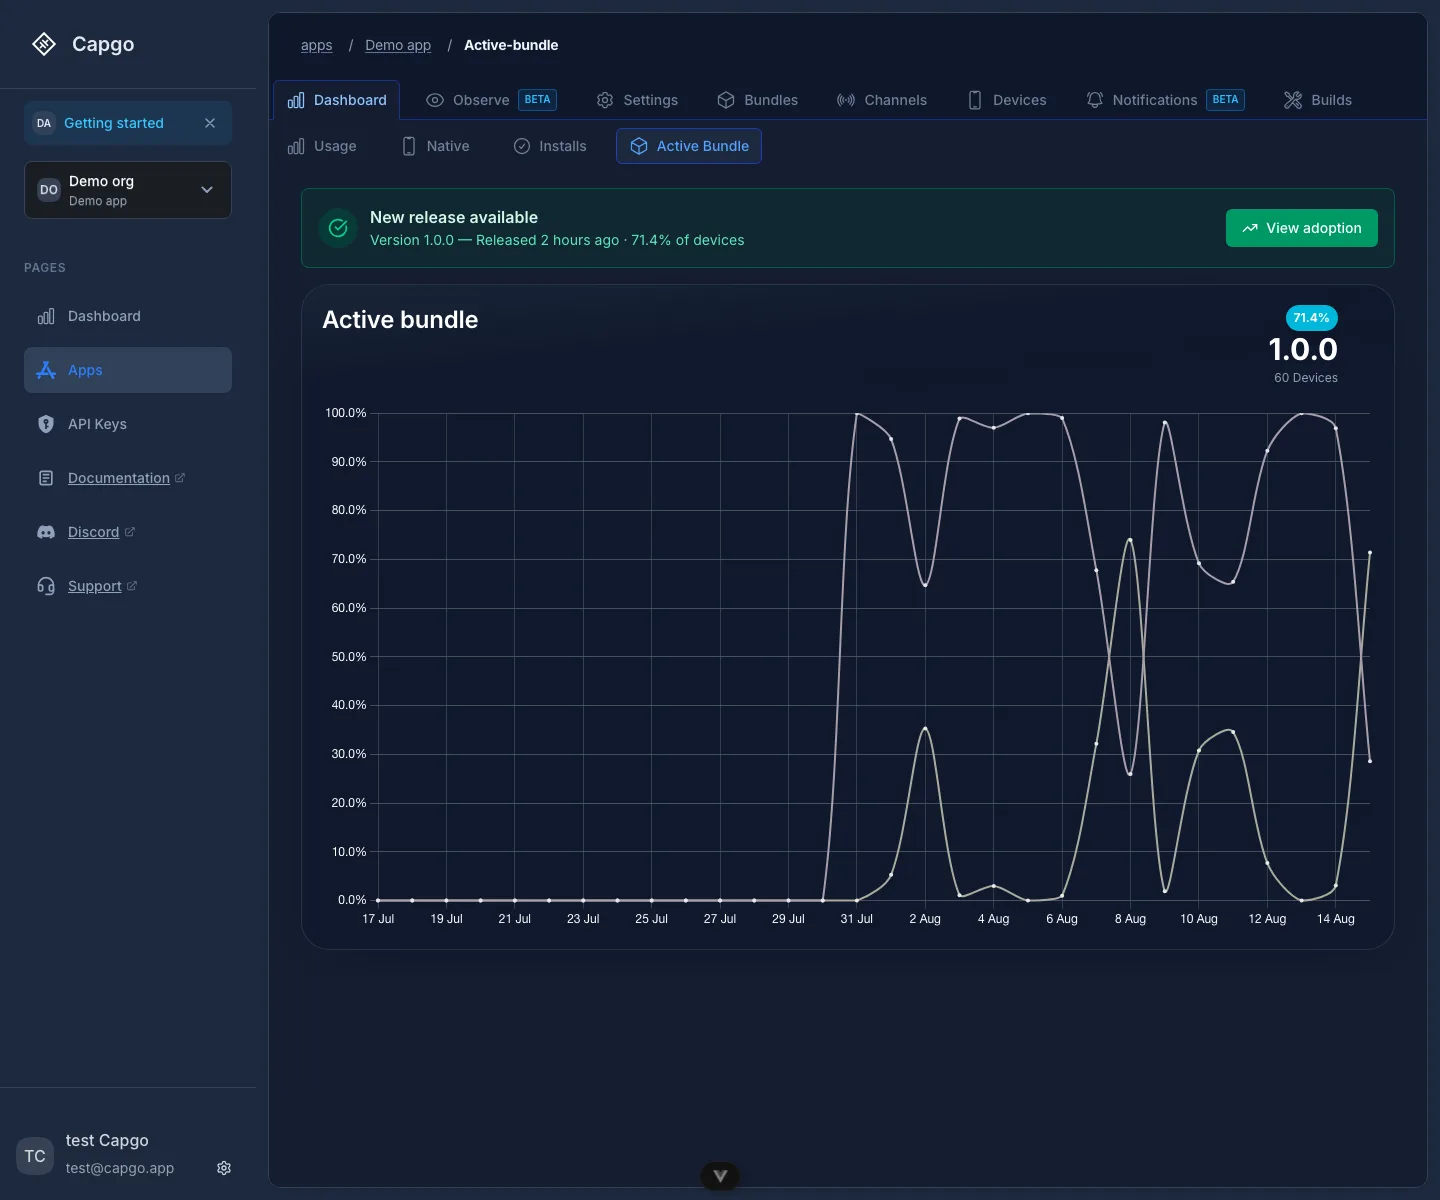
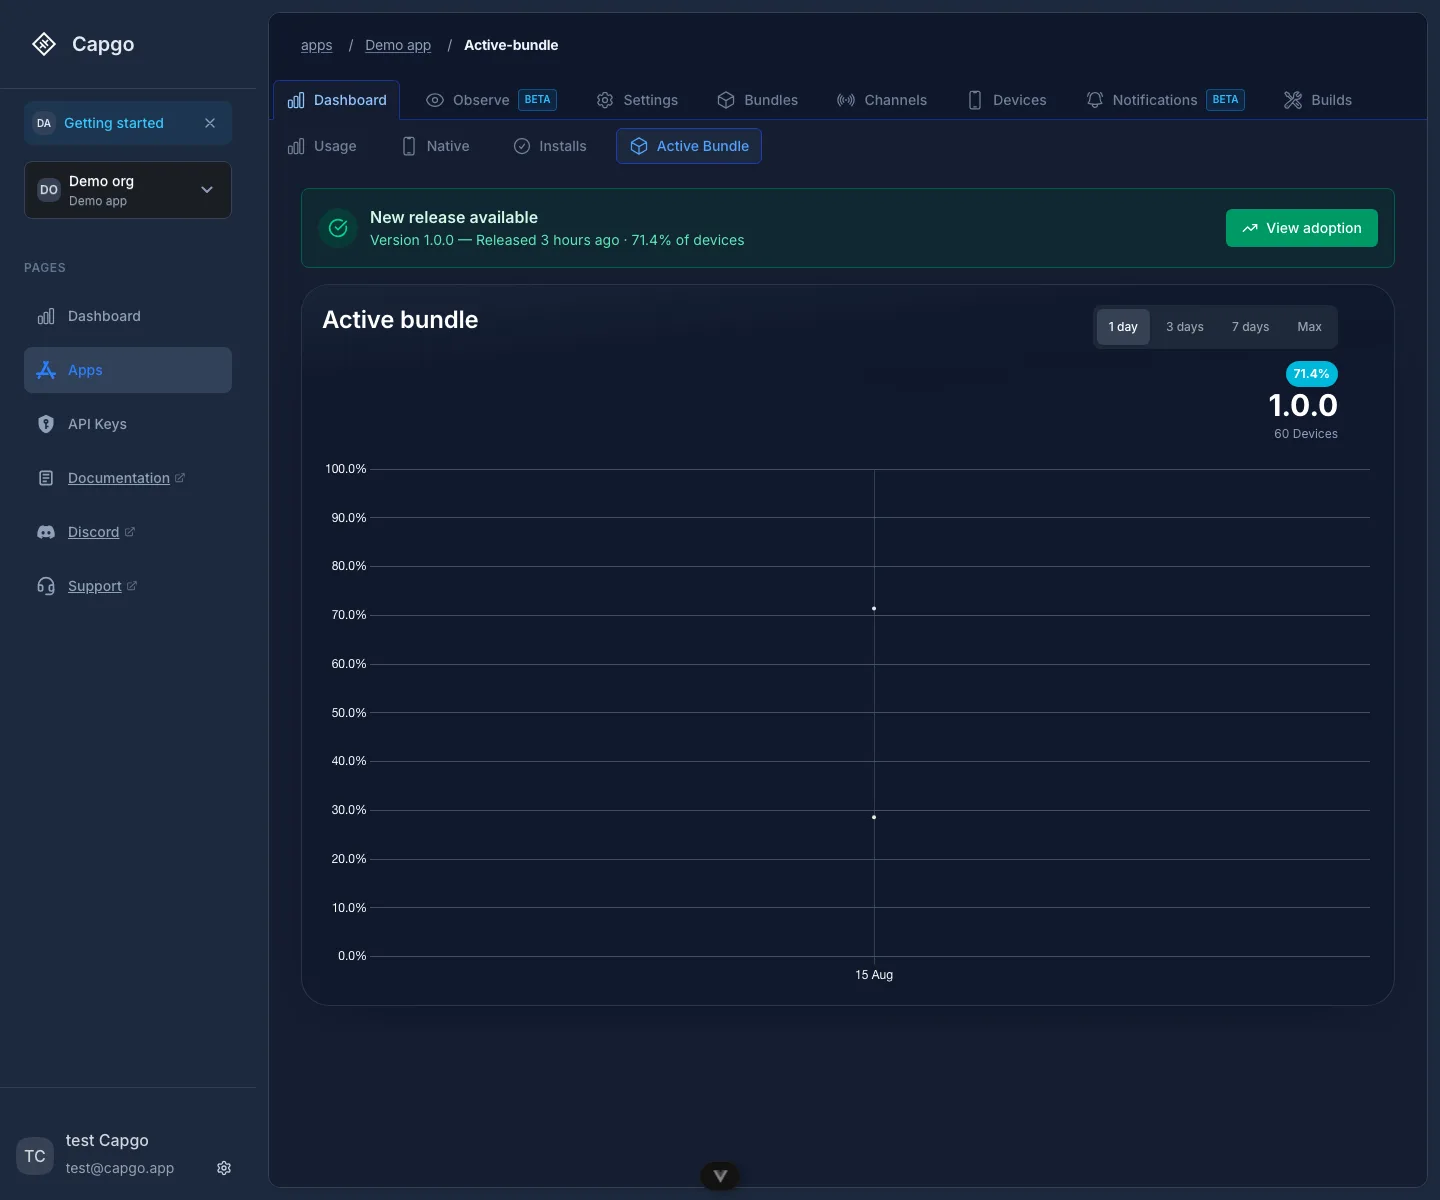
feat(frontend): default Native, Installs, and Active Bundle to 1 day

diff --git a/src/components/dashboard/DevicesStats.vue b/src/components/dashboard/DevicesStats.vue
@@ -1,5 +1,6 @@
 <script setup lang="ts">
 import type { ChartData, ChartOptions, Plugin } from 'chart.js'
+import type { PeriodDayOption } from './PeriodDaySelector.vue'
 import type { TooltipClickHandler } from '~/services/chartTooltip'
 import type { Organization } from '~/stores/organization'
 import { useDark } from '@vueuse/core'
@@ -11,13 +12,14 @@ import { useRoute, useRouter } from 'vue-router'
 import { createChartScales } from '~/services/chartConfig'
 import { useChartData } from '~/services/chartDataService'
 import { createTooltipConfig, todayLinePlugin, verticalLinePlugin } from '~/services/chartTooltip'
-import { generateChartDayLabels, getChartDateRange, normalizeToUtcStartOfDay } from '~/services/date'
+import { generateChartDayLabels, getChartDateRange, getLastNUtcDaysRange, normalizeToUtcStartOfDay } from '~/services/date'
 import { formatNumberValue } from '~/services/formatLocale'
 import { useSupabase } from '~/services/supabase'
 import { useDashboardAppsStore } from '~/stores/dashboardApps'
 import { useOrganizationStore } from '~/stores/organization'
 import { shouldShowDashboardDemoData } from '~/utils/dashboardDemoMode'
 import ChartCard from './ChartCard.vue'
+import PeriodDaySelector from './PeriodDaySelector.vue'
 
 const props = defineProps({
   appId: {
@@ -166,6 +168,7 @@ const tooltipClickHandler = computed<TooltipClickHandler | undefined>(() => {
   }
 })
 const isLoading = ref(true)
+const periodDays = ref<PeriodDayOption>(1)
 const currentRange = ref<{ startDate: Date, endDate: Date } | null>(null)
 let requestToken = 0
 
@@ -281,9 +284,12 @@ function resolveOrganizationForCurrentContext(): Organization | undefined {
 }
 
 function getDateRange() {
+  if (!props.useBillingPeriod)
+    return getLastNUtcDaysRange(periodDays.value)
+
   const activeOrganization = resolveOrganizationForCurrentContext()
   return getChartDateRange(
-    props.useBillingPeriod,
+    true,
     activeOrganization?.subscription_start,
     activeOrganization?.subscription_end,
   )
@@ -539,20 +545,26 @@ const chartOptions = computed<ChartOptions<'line'>>(() => {
 
   return {
     maintainAspectRatio: false,
-    scales: createChartScales(isDark.value, {
-      max: props.accumulated ? 110 : 100,
-      xStacked: props.accumulated,
-      yStacked: props.accumulated,
-      yTickCallback: (tickValue: string | number) => {
-        const numericValue = typeof tickValue === 'number' ? tickValue : Number(tickValue)
-        if (props.accumulated && numericValue > 100)
-          return ''
-        const display = Number.isFinite(numericValue)
-          ? formatNumberValue(numericValue, { minimumFractionDigits: 1, maximumFractionDigits: 1 })
-          : tickValue
-        return `${display}%`
-      },
-    }),
+    scales: (() => {
+      const scales = createChartScales(isDark.value, {
+        max: props.accumulated ? 110 : 100,
+        xStacked: props.accumulated,
+        yStacked: props.accumulated,
+        yTickCallback: (tickValue: string | number) => {
+          const numericValue = typeof tickValue === 'number' ? tickValue : Number(tickValue)
+          if (props.accumulated && numericValue > 100)
+            return ''
+          const display = Number.isFinite(numericValue)
+            ? formatNumberValue(numericValue, { minimumFractionDigits: 1, maximumFractionDigits: 1 })
+            : tickValue
+          return `${display}%`
+        },
+      })
+      const labelCount = processedChartData.value?.labels?.length ?? 0
+      if (labelCount <= 2)
+        Object.assign(scales.x, { offset: true })
+      return scales
+    })(),
     plugins: pluginOptions as unknown as NonNullable<ChartOptions<'line'>['plugins']>,
   }
 })
@@ -646,6 +658,11 @@ async function loadData(forceRefetch = false) {
   }
 }
 
+watch(periodDays, async () => {
+  if (activeAppId.value)
+    await loadData(true)
+})
+
 // Watch billing period changes - use cached data if available
 watch(() => props.useBillingPeriod, async () => {
   if (activeAppId.value)
@@ -734,12 +751,18 @@ watch(
     :is-demo-data="isDemoMode"
   >
     <template #header>
-      <div class="flex items-start justify-between flex-1 gap-2">
-        <h2 class="flex-1 min-w-0 text-2xl font-semibold leading-tight dark:text-white text-slate-600">
-          {{ t(titleKey) }}
-        </h2>
+      <div class="flex flex-col flex-1 gap-3">
+        <div class="flex flex-wrap items-start justify-between gap-3">
+          <h2 class="min-w-0 text-2xl font-semibold leading-tight dark:text-white text-slate-600">
+            {{ t(titleKey) }}
+          </h2>
+          <PeriodDaySelector
+            v-model="periodDays"
+            :labels="{ 30: 'max-period' }"
+          />
+        </div>
 
-        <div class="flex max-w-[11rem] flex-col items-end text-right shrink-0">
+        <div class="flex max-w-[11rem] flex-col items-end self-end text-right shrink-0">
           <div
             class="inline-flex items-center justify-center px-2 py-1 text-xs font-bold text-white rounded-full shadow-lg whitespace-nowrap bg-cyan-500"
           >

diff --git a/playwright/e2e/app-dashboard-tabs.spec.ts b/playwright/e2e/app-dashboard-tabs.spec.ts
@@ -42,8 +42,8 @@ test.describe('App dashboard sections', () => {
     await expect(page.locator('[data-testid="bundle-install-stats"]')).toHaveCount(0)
   })
 
-  test('native and active bundle charts request the last 30 days ending today', async ({ page }) => {
-    function assertLastThirtyDays(url: URL) {
+  test('native, installs, and active bundle default to the 1 day period', async ({ page }) => {
+    function assertDayWindow(url: URL, days: number) {
       const from = url.searchParams.get('from')
       const to = url.searchParams.get('to')
       expect(from).toBeTruthy()
@@ -54,15 +54,28 @@ test.describe('App dashboard sections', () => {
       const twoDaysAgo = Date.now() - 2 * 24 * 60 * 60 * 1000
       expect(toDate.getTime()).toBeGreaterThanOrEqual(twoDaysAgo)
       expect(toDate.getTime()).toBeLessThanOrEqual(Date.now())
-      expect(daySpan).toBe(29)
+      expect(daySpan).toBe(days - 1)
     }
+
+    const oneDayButton = (locator = page.locator('[data-testid="period-day-selector"]')) =>
+      locator.getByRole('button', { name: '1 day', exact: true })
 
     const nativeRequest = page.waitForRequest(request => request.url().includes('/native_usage?'))
     await page.goto('/app/com.demo.app/native')
-    assertLastThirtyDays(new URL((await nativeRequest).url()))
+    assertDayWindow(new URL((await nativeRequest).url()), 1)
+    await expect(oneDayButton()).toHaveAttribute('aria-pressed', 'true')
+
+    await page.goto('/app/com.demo.app/installs')
+    await expect(page.locator('[data-testid="period-day-selector"]')).toBeVisible()
+    await expect(oneDayButton()).toHaveAttribute('aria-pressed', 'true')
 
     const bundleRequest = page.waitForRequest(request => request.url().includes('/bundle_usage?'))
     await page.goto('/app/com.demo.app/active-bundle')
-    assertLastThirtyDays(new URL((await bundleRequest).url()))
+    assertDayWindow(new URL((await bundleRequest).url()), 1)
+    await expect(oneDayButton()).toHaveAttribute('aria-pressed', 'true')
+
+    const maxRequest = page.waitForRequest(request => request.url().includes('/bundle_usage?'))
+    await page.locator('[data-testid="period-day-selector"]').getByRole('button', { name: 'Max', exact: true }).click()
+    assertDayWindow(new URL((await maxRequest).url()), 30)
   })
 })

diff --git a/src/services/date.ts b/src/services/date.ts
@@ -234,24 +234,25 @@ function getDatesInRange(startDate: Date, endDate: Date) {
   return dates
 }
 
-export function getChartDateRange(useBillingPeriod: boolean, billingStart?: Date | string | null, billingEnd?: Date | string | null) {
+export function getLastNUtcDaysRange(dayCount: number) {
+  const days = Number.isFinite(dayCount) ? Math.max(1, Math.floor(dayCount)) : 30
+  const endDate = normalizeToUtcStartOfDay(new Date())
+  const startDate = addUtcDays(endDate, -(days - 1))
+  return { startDate, endDate }
+}
+
+export function getChartDateRange(useBillingPeriod: boolean, billingStart?: Date | string | null, billingEnd?: Date | string | null, dayCount = 30) {
   if (useBillingPeriod) {
     const startDate = normalizeToUtcStartOfDay(parseUtcRangeBoundary(billingStart) ?? new Date())
     const endDate = normalizeToUtcStartOfDay(parseUtcRangeBoundary(billingEnd) ?? new Date())
     return { startDate, endDate }
   }
 
-  const endDate = normalizeToUtcStartOfDay(new Date())
-  const startDate = addUtcDays(endDate, -29)
-  return { startDate, endDate }
+  return getLastNUtcDaysRange(dayCount)
 }
 
-export function generateChartDayLabels(useBillingPeriod: boolean, startDate: Date, endDate: Date) {
-  const { startDate: rangeStart, endDate: rangeEnd } = useBillingPeriod
-    ? { startDate, endDate }
-    : getChartDateRange(false)
-
-  return getDatesInRange(rangeStart, rangeEnd).map(formatLocalDateShort)
+export function generateChartDayLabels(_useBillingPeriod: boolean, startDate: Date, endDate: Date) {
+  return getDatesInRange(startDate, endDate).map(formatLocalDateShort)
 }
 
 export function generateMonthDays(useBillingPeriod: boolean, cycleStart: Date, cycleEnd: Date) {

diff --git a/tests/date.unit.test.ts b/tests/date.unit.test.ts
@@ -13,6 +13,7 @@ import {
   generateMonthDays,
   getChartDateRange,
   getDateLocale,
+  getLastNUtcDaysRange,
   getUtcDayBounds,
   normalizeToUtcStartOfDay,
   resolveDateLocale,
@@ -134,6 +135,18 @@ describe('date helpers', () => {
     expect(formatUtcDateParam(range.endDate)).toBe(formatUtcDateParam(normalizeToUtcStartOfDay(new Date())))
     const daySpan = Math.round((range.endDate.getTime() - range.startDate.getTime()) / (24 * 60 * 60 * 1000))
     expect(daySpan).toBe(29)
+  })
+
+  it('builds last-N-day chart ranges ending today', () => {
+    const oneDay = getLastNUtcDaysRange(1)
+    expect(formatUtcDateParam(oneDay.startDate)).toBe(formatUtcDateParam(oneDay.endDate))
+    expect(formatUtcDateParam(oneDay.endDate)).toBe(formatUtcDateParam(normalizeToUtcStartOfDay(new Date())))
+    expect(generateChartDayLabels(false, oneDay.startDate, oneDay.endDate)).toHaveLength(1)
+
+    const sevenDays = getLastNUtcDaysRange(7)
+    const sevenSpan = Math.round((sevenDays.endDate.getTime() - sevenDays.startDate.getTime()) / (24 * 60 * 60 * 1000))
+    expect(sevenSpan).toBe(6)
+    expect(generateChartDayLabels(false, sevenDays.startDate, sevenDays.endDate)).toHaveLength(7)
   })
 
   it('keeps formatUtcDateParam stable for date-only strings', () => {

diff --git a/src/components/dashboard/AppDashboardPage.vue b/src/components/dashboard/AppDashboardPage.vue
@@ -176,7 +176,7 @@ watchEffect(async () => {
             </div>
           </template>
 
-          <!-- Version mix is operational history, not billed usage. Last 30 days ending today. -->
+          <!-- Version mix is operational history, not billed usage. Default last 1 day. -->
           <div v-else-if="!lacksSecurityAccess && props.section === 'native'" class="grid grid-cols-1 gap-6 mb-6">
             <DevicesStats
               :app-id="id"
@@ -195,7 +195,7 @@ watchEffect(async () => {
             />
           </div>
 
-          <!-- Same last-30-days window as Native. Billing end dates are in the future and empty. -->
+          <!-- Same period selector as Native. Default last 1 day. -->
           <div v-else-if="!lacksSecurityAccess && props.section === 'active-bundle'" class="grid grid-cols-1 gap-6 mb-6">
             <DevicesStats
               :app-id="id"

diff --git a/src/components/dashboard/BundleInstallStatsPanel.vue b/src/components/dashboard/BundleInstallStatsPanel.vue
@@ -32,7 +32,7 @@ const props = withDefaults(defineProps<{
 const { t } = useI18n()
 const router = useRouter()
 const supabase = useSupabase()
-const localDays = ref<PeriodDayOption>(30)
+const localDays = ref<PeriodDayOption>(1)
 const days = computed(() => props.days ?? localDays.value)
 const bundleIdCache = ref<Record<string, number>>({})
 
